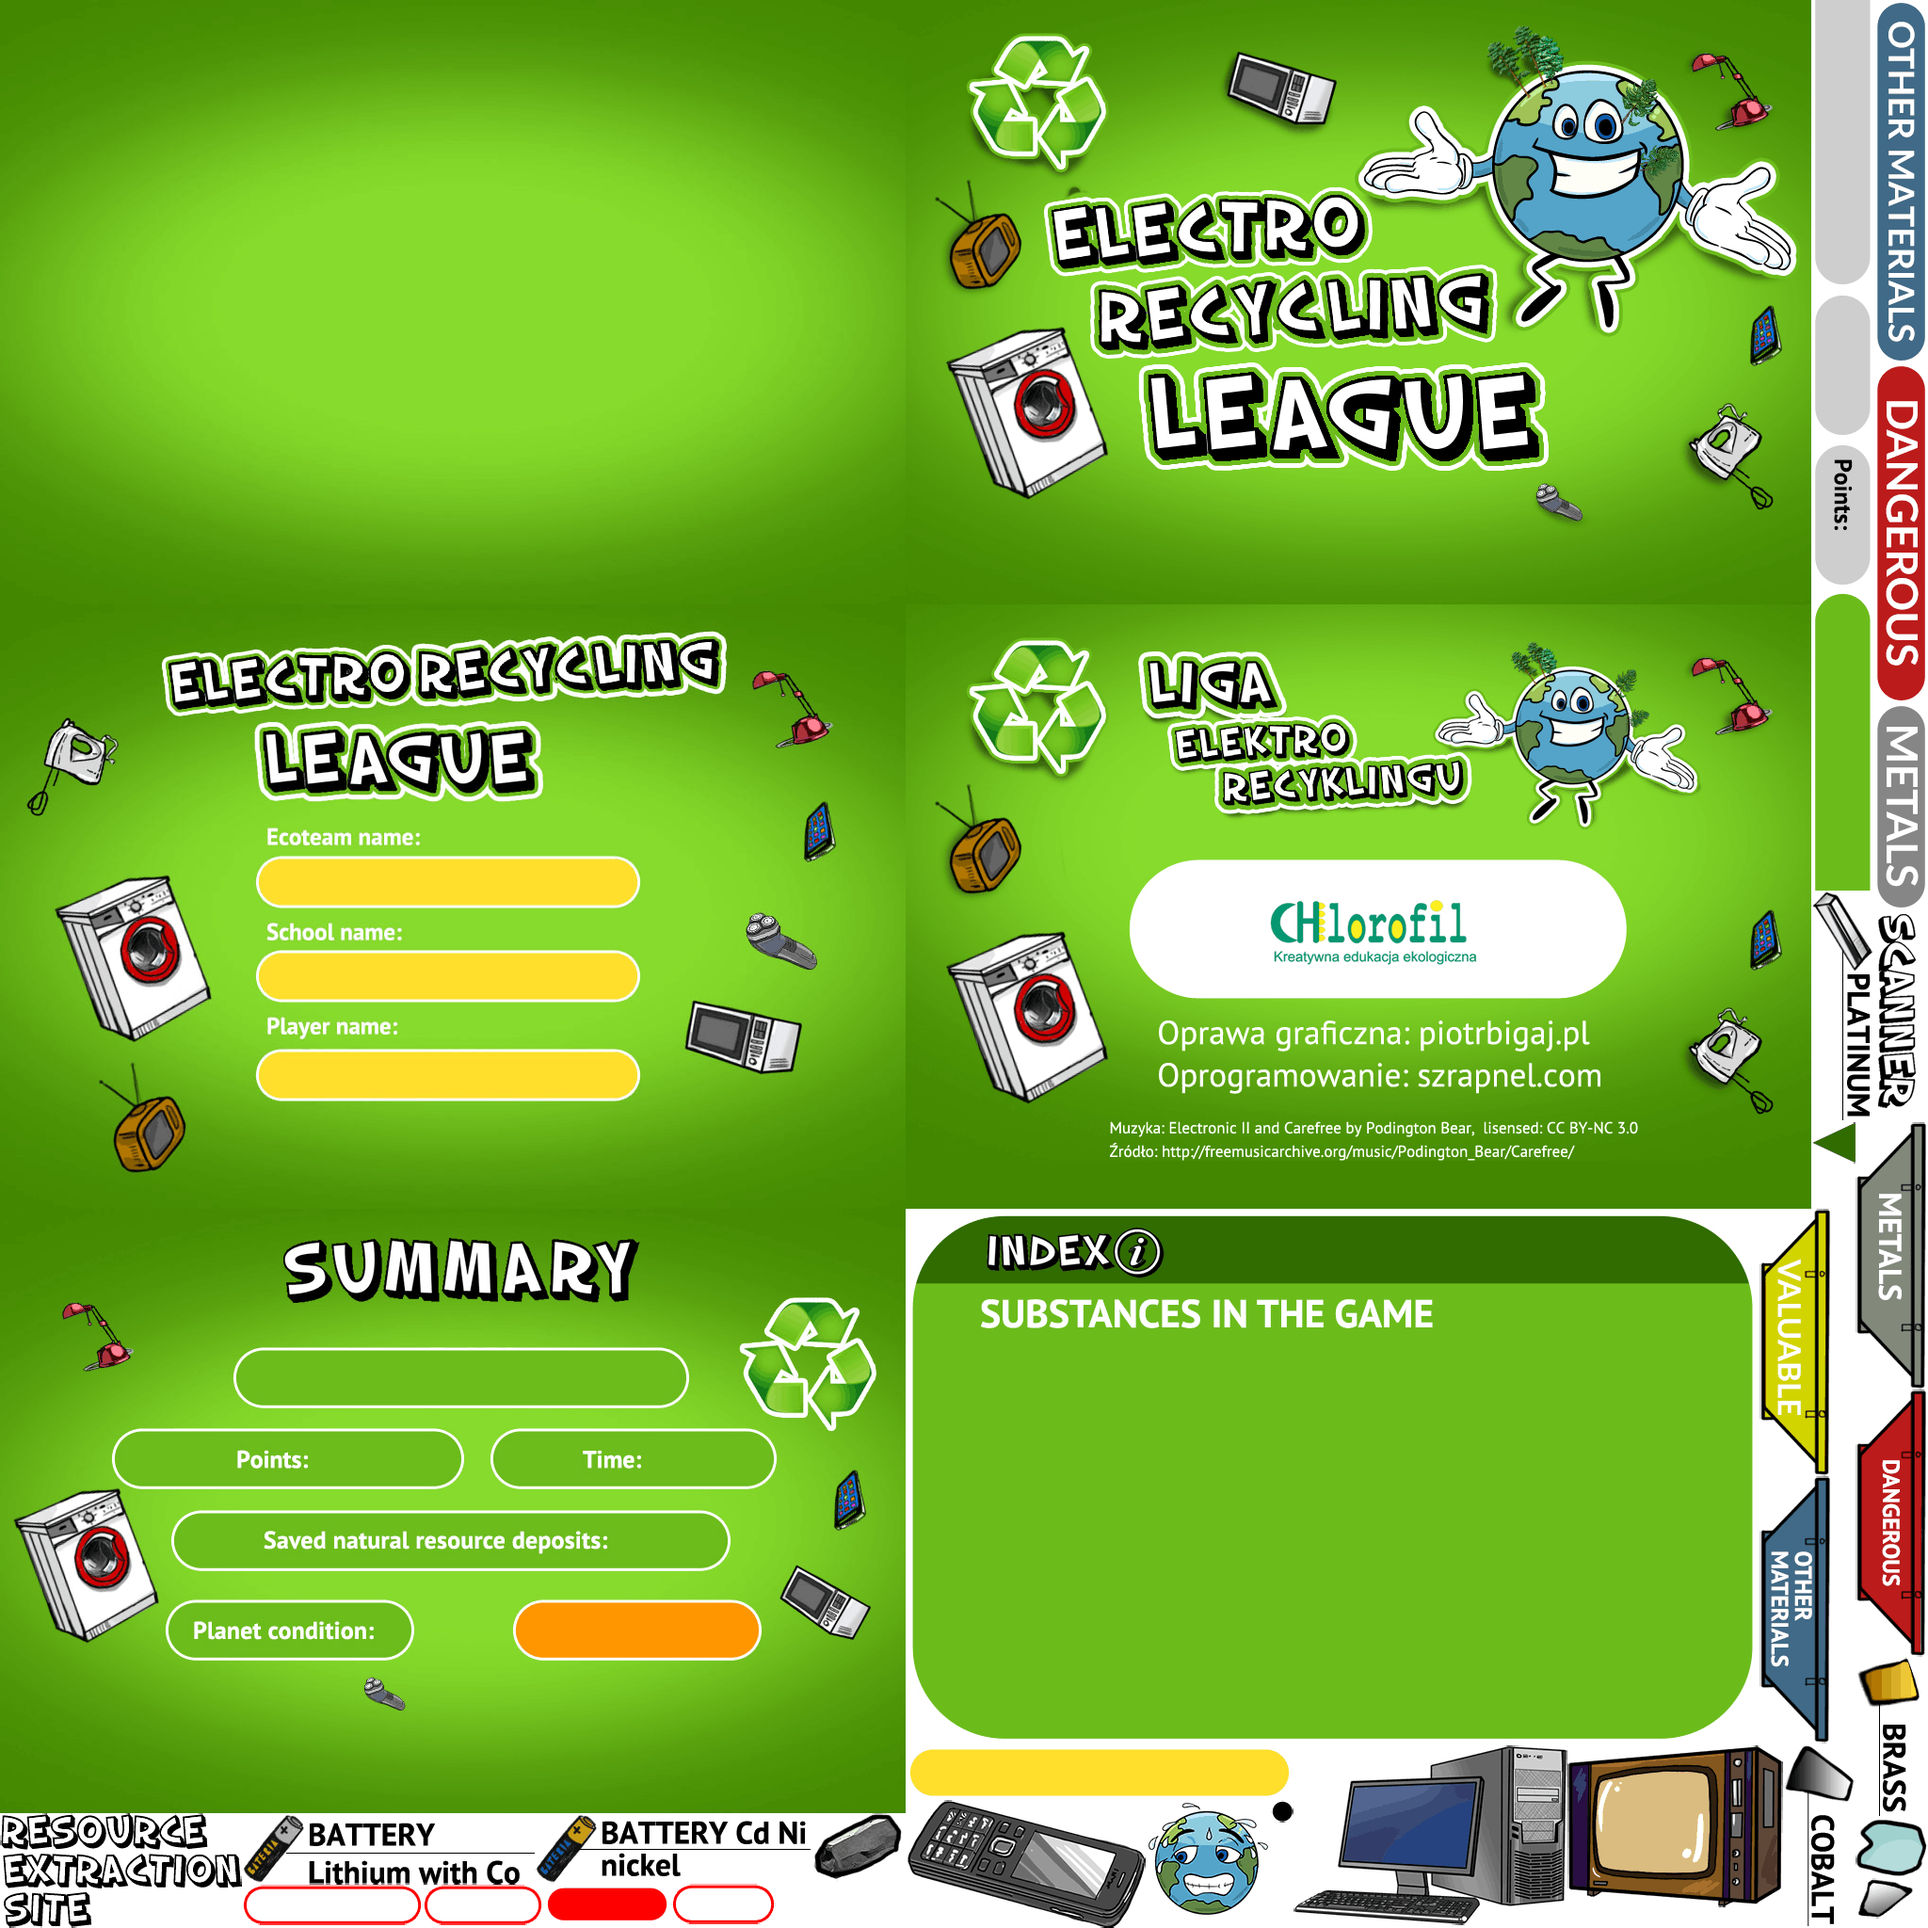
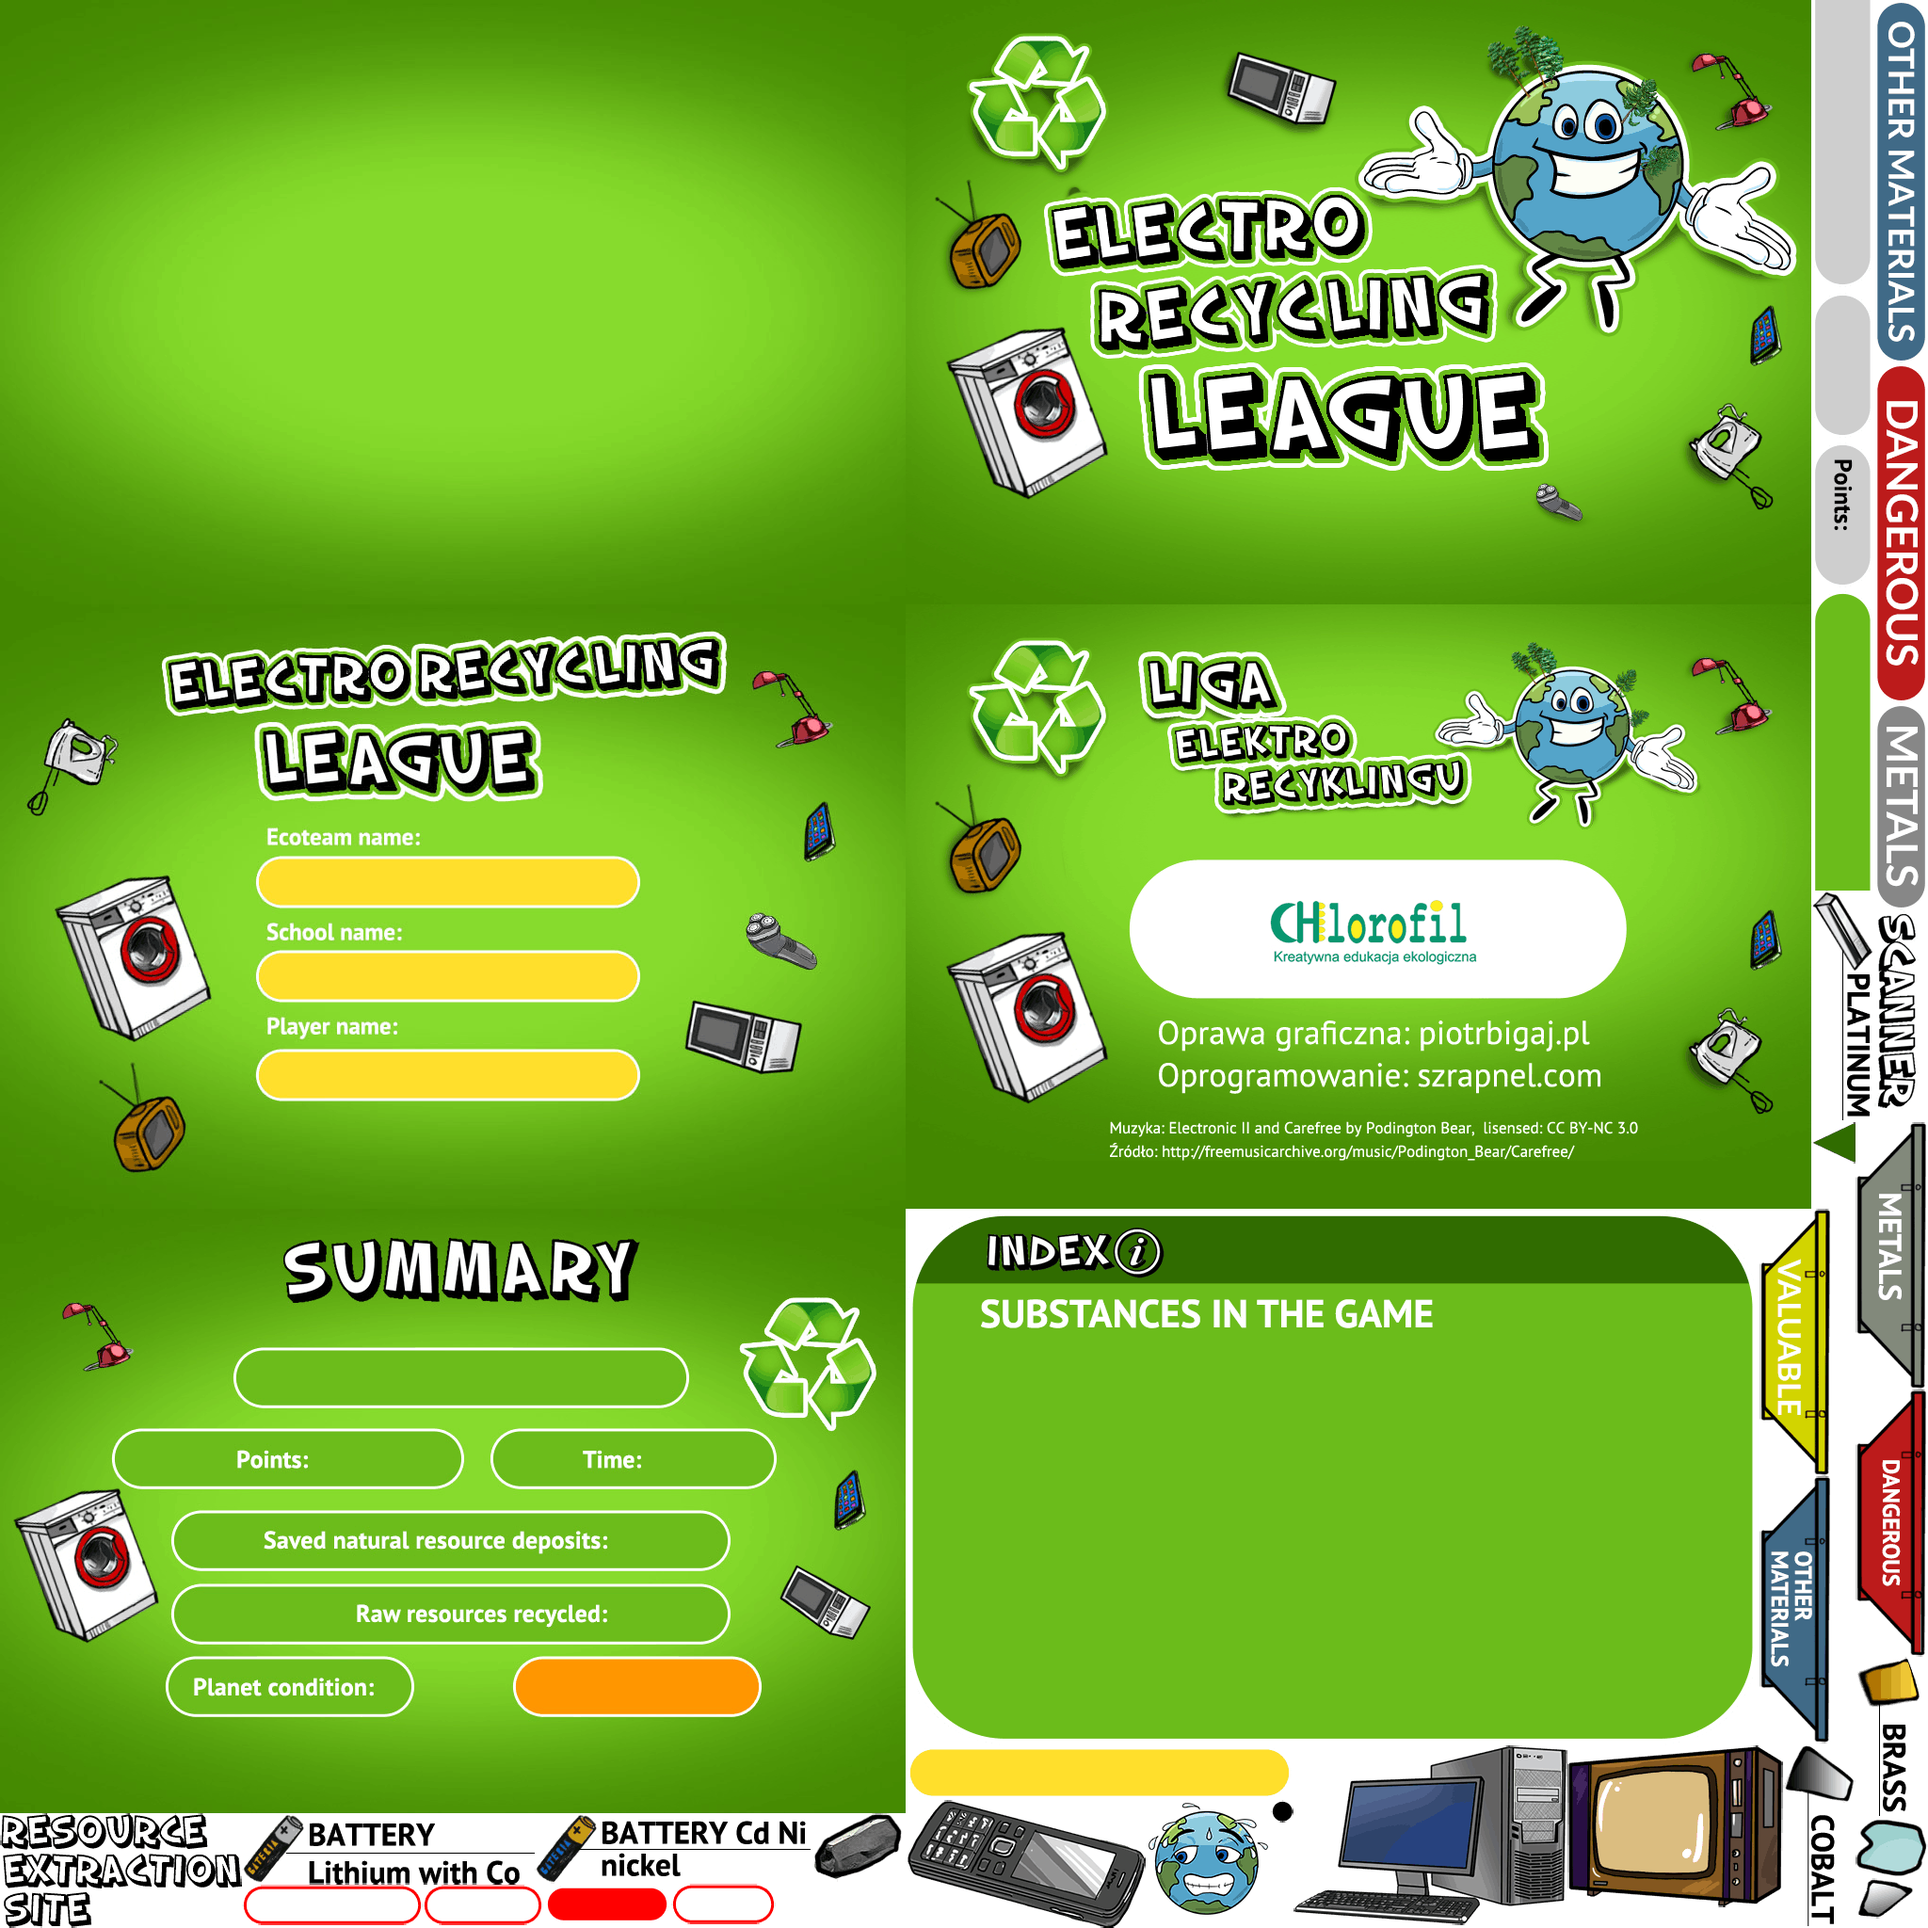
mercury added, desc updated, points updated, good/bad answer indicator (BrokenPopup), recycled resources indicator (ScoreScreen), new ScoreScreen

Changed region(s): [[0.0938, 0.8125, 0.4062, 0.9062]]

diff --git a/ItemConfig.js b/ItemConfig.js
@@ -12,13 +12,13 @@ class ItemConfig {
 		var batteryLit = 	new ItemComponent("batteryLit",	"raw_res_batteryLit.png",	"Other",	5);
 		var batteryNik = 	new ItemComponent("batteryNik",	"raw_res_batteryNik.png",	"Other",	5);
 		var brass = 		new ItemComponent("brass",		"raw_res_brass.png",		"Metal",	5);
-		var cadm = 			new ItemComponent("cadm",		"raw_res_cadm.png",			"Metal",	10);
+		var cadm = 			new ItemComponent("cadm",		"raw_res_cadm.png",			"Danger",	10);
 		var chrome = 		new ItemComponent("chrome",		"raw_res_chrome.png",		"Metal",	10);
 		var cobalt = 		new ItemComponent("cobalt",		"raw_res_cobalt.png",		"Metal",	10);
 		var copper = 		new ItemComponent("copper",		"raw_res_copper.png",		"Metal",	7);
 		var glass = 		new ItemComponent("glass",		"raw_res_glass.png",		"Other",	5);
 		var gold = 			new ItemComponent("gold",		"raw_res_gold.png",			"Rich",		10);
-		var lead = 			new ItemComponent("lead",		"raw_res_lead.png",			"Danger",	5);
+		var lead = 			new ItemComponent("lead",		"raw_res_lead.png",			"Danger",	10);
 		var nickel = 		new ItemComponent("nickel",		"raw_res_nickel.png",		"Metal",	10);
 		var plastic = 		new ItemComponent("plastic",	"raw_res_plastic.png",		"Other",	3);
 		var platinium = 	new ItemComponent("platinium",	"raw_res_platinium.png",	"Rich",		10);
@@ -28,7 +28,7 @@ class ItemConfig {
 		var steel = 		new ItemComponent("steel",		"raw_res_steel.png",		"Metal",	5);
 		var tin = 			new ItemComponent("tin",		"raw_res_tin.png",			"Metal",	5);
 		var wolfram = 		new ItemComponent("wolfram",	"raw_res_wolfram.png",		"Rich",		8);
-		var mercury = 		new ItemComponent("mercury",	"raw_res_wolfram.png",		"Danger",	7);
+		var mercury = 		new ItemComponent("mercury",	"raw_res_mercury.png",		"Danger",	10);
 		
 		aluminium.addMineCountry(countryName.AUSTRALIA);
 		aluminium.addMineCountry(countryName.GWINEA);
@@ -44,7 +44,7 @@ class ItemConfig {
 		cadm.addMineCountry(countryName.CHINY);
 		cadm.addMineCountry(countryName.POLSKA);
 		cadm.addMineCountry(countryName.USA);
-		cadm.desc = "";
+		cadm.desc = "Stosowany w metalurgii, używany w stopach do przewodów elektrycznych i bezpieczników, a także w produkcji baterii akumulatorowych (na przykład baterii niklowo-kadmowych)";
 		
 		chrome.desc = "";
 		
@@ -68,7 +68,7 @@ class ItemConfig {
 		lead.addMineCountry(countryName.AUSTRALIA);
 		lead.addMineCountry(countryName.KANADA);
 		lead.addMineCountry(countryName.MEKSYK);
-		lead.desc = "It is a heavy metal, dangerous for health. Proctects from X-rays, was used in old television's cathode ray tubes, CRT screens and soldering alloys.";
+		lead.desc = "Używany w akumulatorach, a także w postaci blach, rur, stopów, śrutu i w produkcji szkła, do powłok kabli elektrycznych czy osłony przed promieniowaniem jonizującym.";
 		
 		nickel.addMineCountry(countryName.KANADA);
 		nickel.addMineCountry(countryName.KUBA);
@@ -213,7 +213,8 @@ class ItemConfig {
 			tvNEW.addComponent(glass,30);
 			
 		var tvOLD = new SortItem("tvOLD","item_tvOLD.png");
-			tvOLD.addComponent(mercury,2);
+			tvOLD.addComponent(mercury,1);
+			tvOLD.addComponent(cadm,1);
 			tvOLD.addComponent(steel,4);
 			tvOLD.addComponent(lead,9);
 			tvOLD.addComponent(copper,15);

diff --git a/BrokenPopup.js b/BrokenPopup.js
@@ -60,20 +60,56 @@ class BrokenPopup extends Popup {
 			popupProcessBtnTXT.y=160;
 		this.addChild(popupProcessBtnTXT);
 		
+		this.popupResultIcon = new PIXI.Sprite(PIXI.Texture.from("tickIcon.png"));
+		var popupResultIcon = this.popupResultIcon;
+			popupResultIcon.pivot.x = popupResultIcon.width/2;
+			popupResultIcon.pivot.y = popupResultIcon.height/2;
+			popupResultIcon.visible=false;
+		this.addChild(popupResultIcon);
+		
 		this.popupDesc.y-=60;
 		this.popupDesc.x=0;
 		
 		this.popupCloseBtn.visible=false;
 		
 		function onRecycleBtnClick() {
-			if(context.itemShouldBeRecycled(context)) window.addPoints(10);
-			window.hideCatchLevelBrokenPopup();
+			context.popupRecycleBtn.interactive=false;
+			context.popupProcessBtn.interactive=false;
+			if(context.itemShouldBeRecycled(context)) {
+				context.popupResultIcon.texture=PIXI.Texture.from("tickIcon.png");
+				window.addPoints(10);
+			} else {
+				context.popupResultIcon.texture=PIXI.Texture.from("crossIcon.png");
+			}
+			context.popupResultIcon.visible=true;
+			context.popupResultIcon.alpha=0;
+			gsap.to(context.popupResultIcon,0.7,{alpha:1, onComplete:context.closePopupIn,onCompleteParams:[context,1]});
 		}
 		
 		function onProcessBtnClick() {
-			if(context.itemShouldBeProcessed(context)) window.addPoints(10);
-			window.hideCatchLevelBrokenPopup();
+			context.popupRecycleBtn.interactive=false;
+			context.popupProcessBtn.interactive=false;
+			if(context.itemShouldBeProcessed(context))  {
+				context.popupResultIcon.texture=PIXI.Texture.from("tickIcon.png");
+				window.addPoints(10);
+			} else {
+				context.popupResultIcon.texture=PIXI.Texture.from("crossIcon.png");
+			}
+			context.popupResultIcon.visible=true;
+			context.popupResultIcon.alpha=0;
+			gsap.to(context.popupResultIcon,0.7,{alpha:1, onComplete:context.closePopupIn,onCompleteParams:[context,1]});
 		}
+	}
+	
+	closePopupIn(context,value) {
+		gsap.delayedCall(value,context.closePopup,[context]);
+	}
+	
+	closePopup(context) {
+		context.popupResultIcon.visible=false;
+		context.popupRecycleBtn.interactive=true;
+		context.popupProcessBtn.interactive=true;
+		window.hideCatchLevelBrokenPopup();
 	}
 	
 	itemShouldBeRecycled(context) {

diff --git a/MonsterLevel.js b/MonsterLevel.js
@@ -280,8 +280,7 @@ class MonsterLevel extends PIXI.Sprite {
 			this.alpha = 0.5;
 			context.itemCaught=this;
 			if (!this.dragging) {
-				if (context.itemCaught.refItem.name!="mercury") context.itemCaught.texture=PIXI.Texture.from("res_"+context.itemCaught.refItem.name+".png")
-				else  context.itemCaught.texture=PIXI.Texture.from("res_wolfram.png");
+				context.itemCaught.texture=PIXI.Texture.from("res_"+context.itemCaught.refItem.name+".png");
 				context.itemCaught.pivot.x = -100;
 				context.itemCaught.pivot.y = 0;
 				console.log("res_"+context.itemCaught.refItem.name+".png");
@@ -352,13 +351,14 @@ class MonsterLevel extends PIXI.Sprite {
 			if(correct) {
 				if (context.itemsInScanner[item.refItem.name]) context.itemsInScanner[item.refItem.name]++
 				else context.itemsInScanner[item.refItem.name]=1;
-				window.addPoints(item.refItem.points);
+				if (item.refItem.type=="Danger") window.addPoints(2*item.refItem.points)
+				else window.addPoints(2*item.refItem.points);
 				if (collectedComponents[item.refItem.name]) collectedComponents[item.refItem.name]=collectedComponents[item.refItem.name]+200;
 				else collectedComponents[item.refItem.name]=200;
 			} else {
 				window.removePoints(0);
 			}
-			if (item.refItem.name=="mercury") {
+			if (item.refItem.type=="Danger") {
 				context.stopRandomItemDrop(context);
 				context.hazardQuizPopup.visible=true;
 				context.setChildIndex(context.hazardQuizPopup,context.children.length-1);

diff --git a/ScoreLevel.js b/ScoreLevel.js
@@ -1,7 +1,8 @@
 class ScoreLevel extends PIXI.Sprite {
 	
-	constructor(points,endFunc) {
+	constructor(recCompNum,points,endFunc) {
 		super();
+		this.recCompNum=recCompNum;
 		this.points=points;
 		this.endFunc=endFunc;
 	}
@@ -39,6 +40,16 @@ class ScoreLevel extends PIXI.Sprite {
 		this.addChild(playerName);
 			
 		while(playerName.width>500) playerName.style.fontSize--;
+		
+		context.recycledComponentsTXT = new PIXI.Text(context.recCompNum.toString(),{fontFamily : 'Arial', fontSize: 34, fill: 0xffffff, align: 'center'});
+		var recycledComponentsTXT=this.recycledComponentsTXT;
+			recycledComponentsTXT.anchor.set(0.5);
+			recycledComponentsTXT.roundPixels=true;
+			recycledComponentsTXT.x=700
+			recycledComponentsTXT.y=430;
+		this.addChild(recycledComponentsTXT);
+			
+		while(recycledComponentsTXT.width>200) recycledComponentsTXT.style.fontSize--;
 	}
 	
 	begin() {

diff --git a/ElectroScraps.php b/ElectroScraps.php
@@ -113,6 +113,7 @@
 			let gameIteration;
 			let _selectedMineCountries=[];
 			let _collectedComponents=[];
+			let _recycledComponentNum=0;
 			
 			const countryName = {
 				POLSKA		:	'Poland',
@@ -160,6 +161,7 @@
 			PIXI.Loader.shared.add('bad','Assets/bad.mp3');
 			PIXI.Loader.shared.add("Assets/ES_SS_EN-0.json");
 			PIXI.Loader.shared.add("Assets/ES_SS_EN-1.json");
+			PIXI.Loader.shared.add("Assets/ES_SS_EN-addons.json");
 			PIXI.Loader.shared.onProgress.add( function() {
 				assetsLoaded++;
 				preloader.width=parseInt(960*assetsLoaded/assetsNum);
@@ -242,7 +244,7 @@
 			
 			function startScoreLevel() {
 				context.playMusic(4);
-				level = new ScoreLevel(parseInt(overlayMenu.points.text),context.startEndLevel);
+				level = new ScoreLevel(_recycledComponentNum,parseInt(overlayMenu.points.text),context.startEndLevel);
 				app.stage.currentLevel=level;
 				app.stage.addChildAt(level,app.stage.children.length-childOnTop);
 				level.init();
@@ -269,6 +271,8 @@
 				overlayMenu.init();
 				gameIteration=1;
 				_selectedMineCountries=[];
+				_collectedComponents=[];
+				_recycledComponentNum=0;
 				startMenuLevel();
 			}
 			
@@ -322,7 +326,7 @@
 			
 			function hideMonsterLevelRecyclePopup() {
 				overlayMenu.addPoints(100*gameIteration);
-				
+				_recycledComponentNum++;
 				app.stage.currentLevel.recyclePopup.visible=false;
 				app.stage.currentLevel.initRandomItemDrop(app.stage.currentLevel);
 				app.stage.currentLevel.checkItemsInScanner(app.stage.currentLevel);
